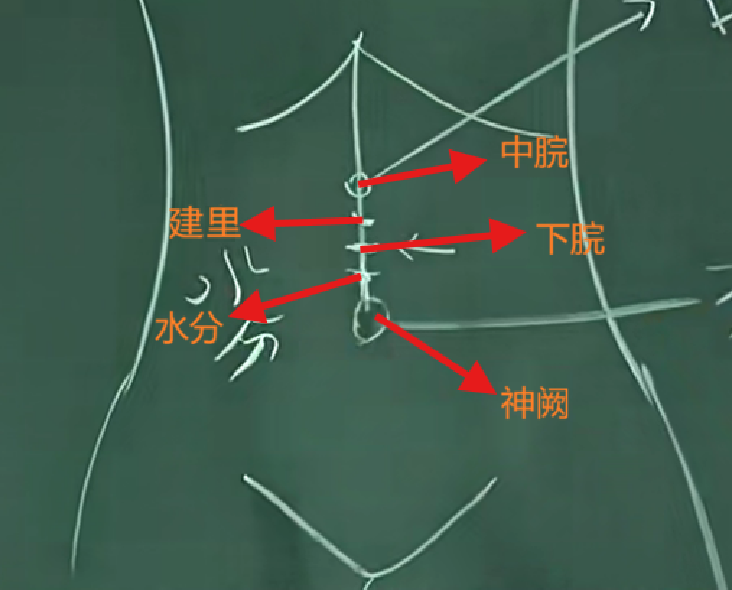
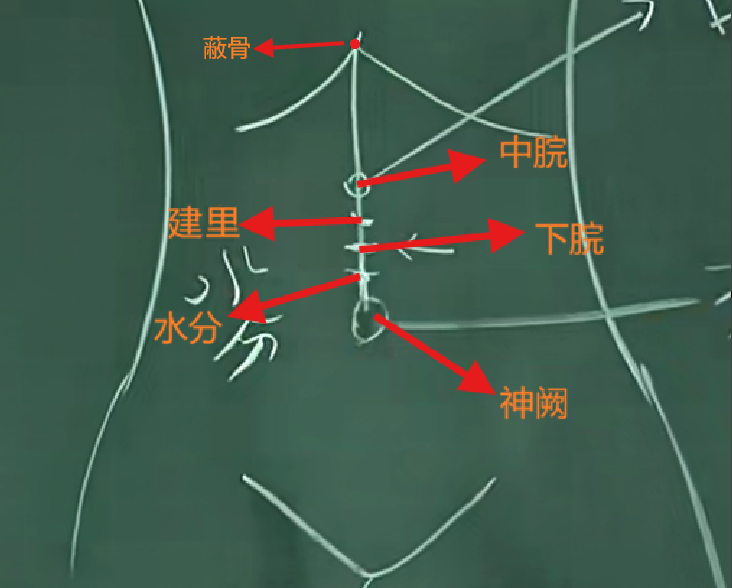
下脘

diff --git a/中医/针灸/4_任督二脉.md b/中医/针灸/4_任督二脉.md
@@ -128,6 +128,8 @@
 
 **心腹间穴道定位法**：肋骨正中与神阙穴之间，按照等位分割。使用上腹寸。
 
+**上腹寸**：从蔽骨到肚脐画一条线，取中点，中点与肚脐之间的距离等分为4段，每一段的长度为一寸。也就是说蔽骨与肚脐之间共分为8寸
+
 ![](img/腹中穴道.png)
 中脘与神阙之间等分为4段，分段点上各有穴位。
 
@@ -146,12 +148,22 @@
 **治疗**： 针灸皆可。有水病的话灸更好
 - **水肿、肠鸣**：病因分析：当水分穴功能减退的时候，过多的水进入小肠，会造成肠鸣，身体吸收了太多的水会造成水肿。
 - 主水病，腹部坚入鼓，灸之。
-- 不明原因的流鼻血<font color=gray>（14岁以下的小孩流鼻血不用治，是正常的(先天体能很强的人，将要发高烧的时候，一流鼻血就不会发高烧)，超过14岁需要治疗）</font>
+- 不明原因的流鼻血<font color=gray>（14岁以下的小孩流鼻血不用治，是正常的(先天体能很强的人，将要发高烧的时候，一流鼻血就不会发高烧， 因为流鼻血会把热泄掉)，超过14岁需要治疗）</font>
 
->消渴。中医上将消渴症分为3种，上消、中消、下消。
+>消渴：中医上将消渴症分为3种，上消、中消、下消。
 上消的主要症状：渴饮百杯而不止渴、 尿频。因为水分不能分清浊，导致喝的水就进入小肠。
 中消的症状：肚子饿，一直吃东西，但还是有饿的感觉
 下消的症状：阳不举。
 在西医上糖尿病因分两种，胰岛素依赖型(第一型)、第二型糖尿病。第一型本来是不存在的，因为打疫苗等导致胰腺功能失去引起的，中医无法医治。
 
 ## 2.3 下脘
+
+**介绍**：胃的下口，小肠的上口。太阴任脉之会。
+
+**位置**：。位于肚脐上两寸<font color=gray>上腹寸</font>，
+
+>痛的本质是来自压力 --- 中医是物理医学。疼痛的时候把压力疏解掉就好了， 例如牙疼，因为发炎了，里面的脓产生压力导致疼痛，这个发炎的原因可能是细菌，处方的作用不是取杀死这些细菌，而是改变发炎的环境，发炎的环境改变，细菌就没法生存，发炎就好了。改变环境就需要从阴阳表里虚实寒热方面辩证。中药和针灸的都是这样。
+
+## 2.4 建里
+
+**介绍**：
